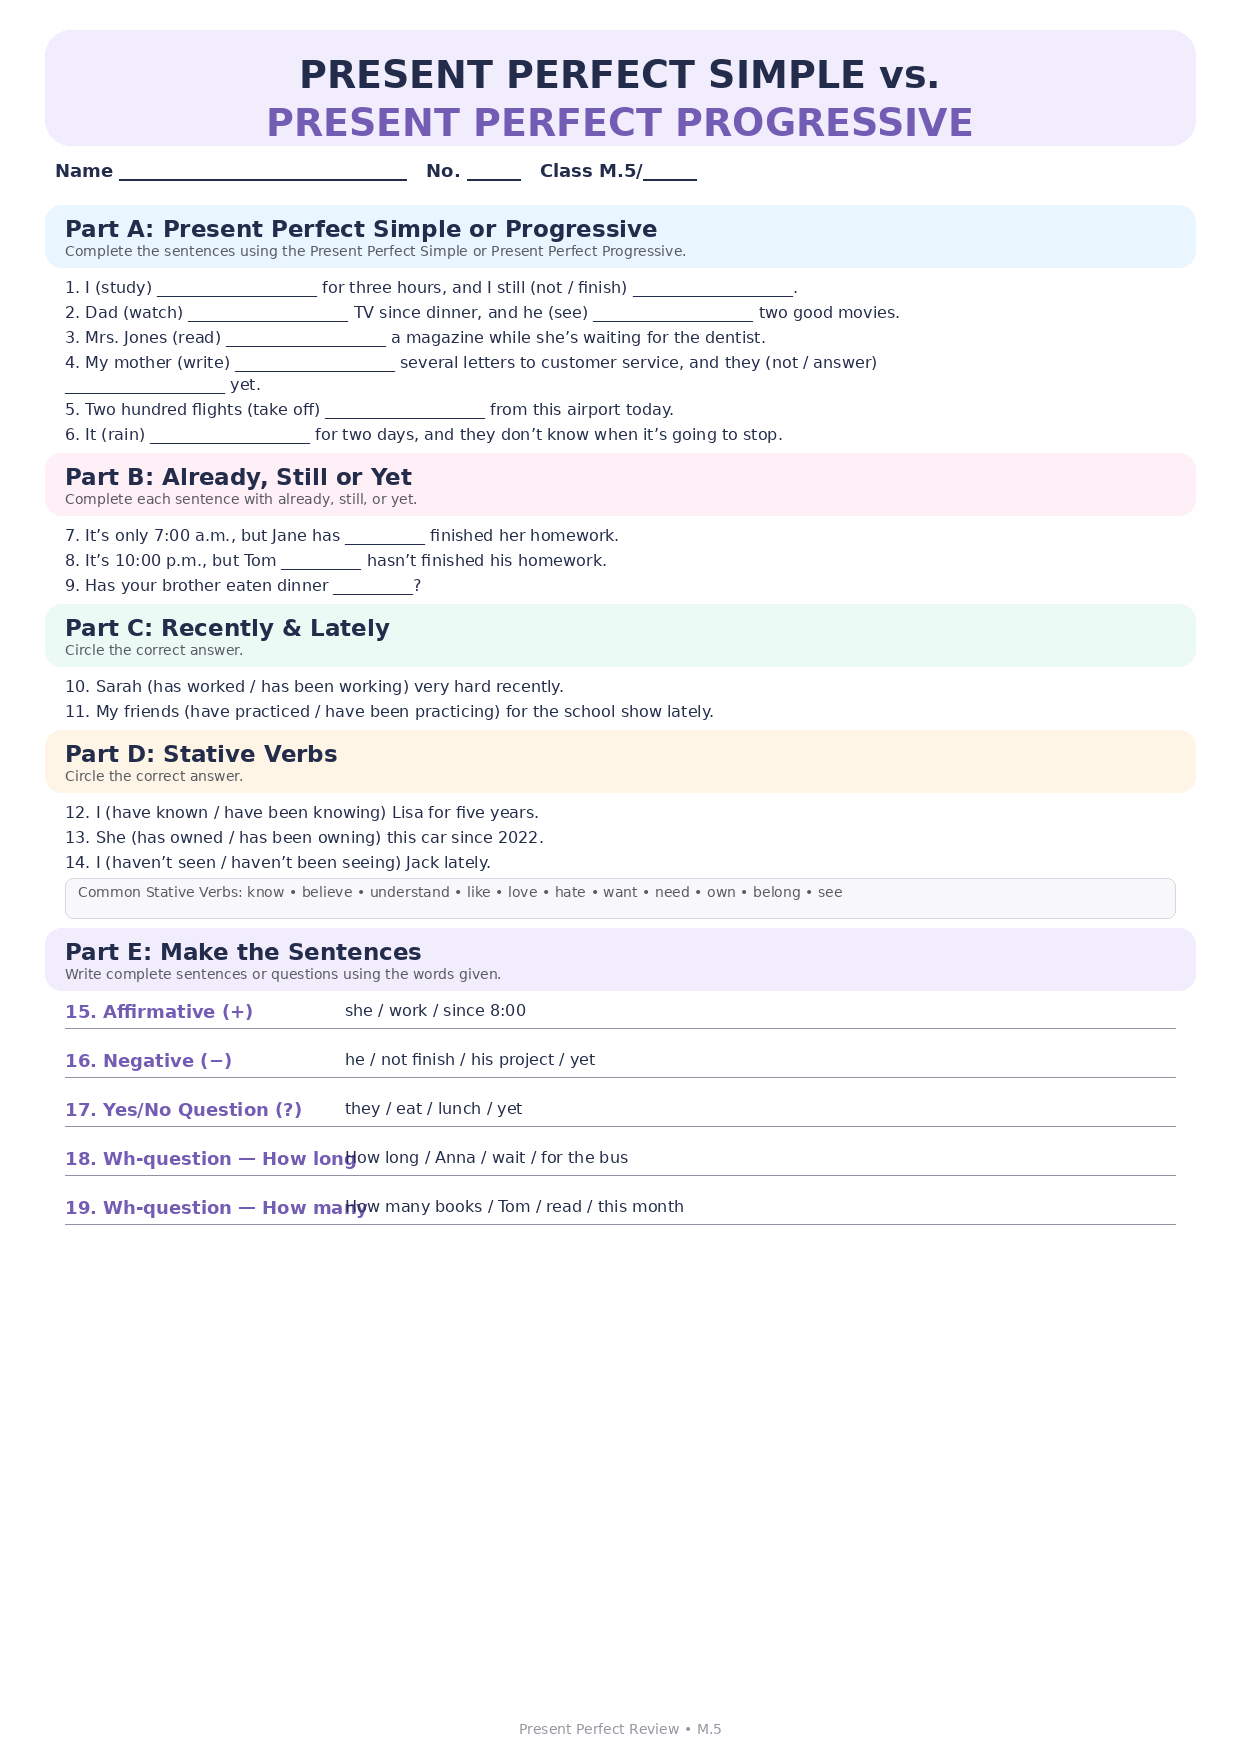
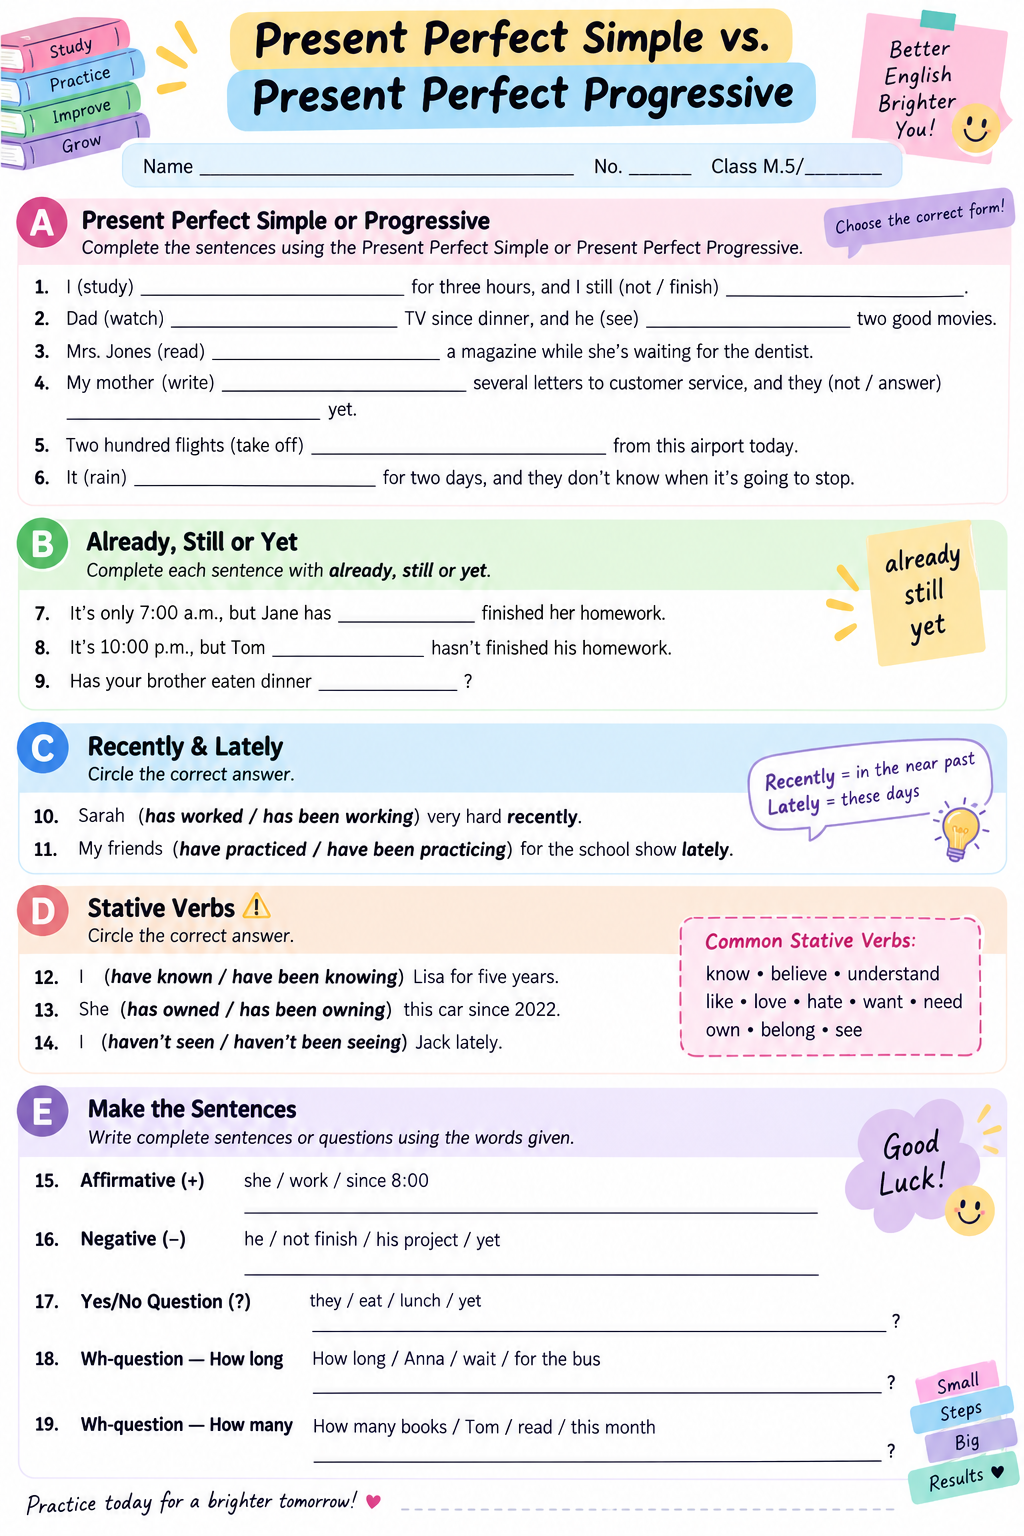
Add files via upload

diff --git a/api/create-worksheet.js b/api/create-worksheet.js
@@ -111,9 +111,9 @@ module.exports = async (req, res) => {
     const cfg = worksheet === '3' ? {
       file: 'worksheet3.png',
       title: 'Present_Perfect_Simple_vs_Progressive',
-      header: { name:[130,160,390], no:[650,160,90], room:[950,160,100] },
-      positions: [[300,390],[900,470],[300,760],[900,900],[300,1210],[900,1450]],
-      markWidth: 500
+      header: { name:[198,158,365], no:[630,158,70], room:[807,158,90] },
+      positions: [[270,350],[760,430],[260,625],[760,815],[275,1030],[750,1320]],
+      markWidth: 420
     } : worksheet === '2' ? {
       file: 'worksheet2.png',
       title: 'Present_Perfect_Simple_Exit_Worksheet',
